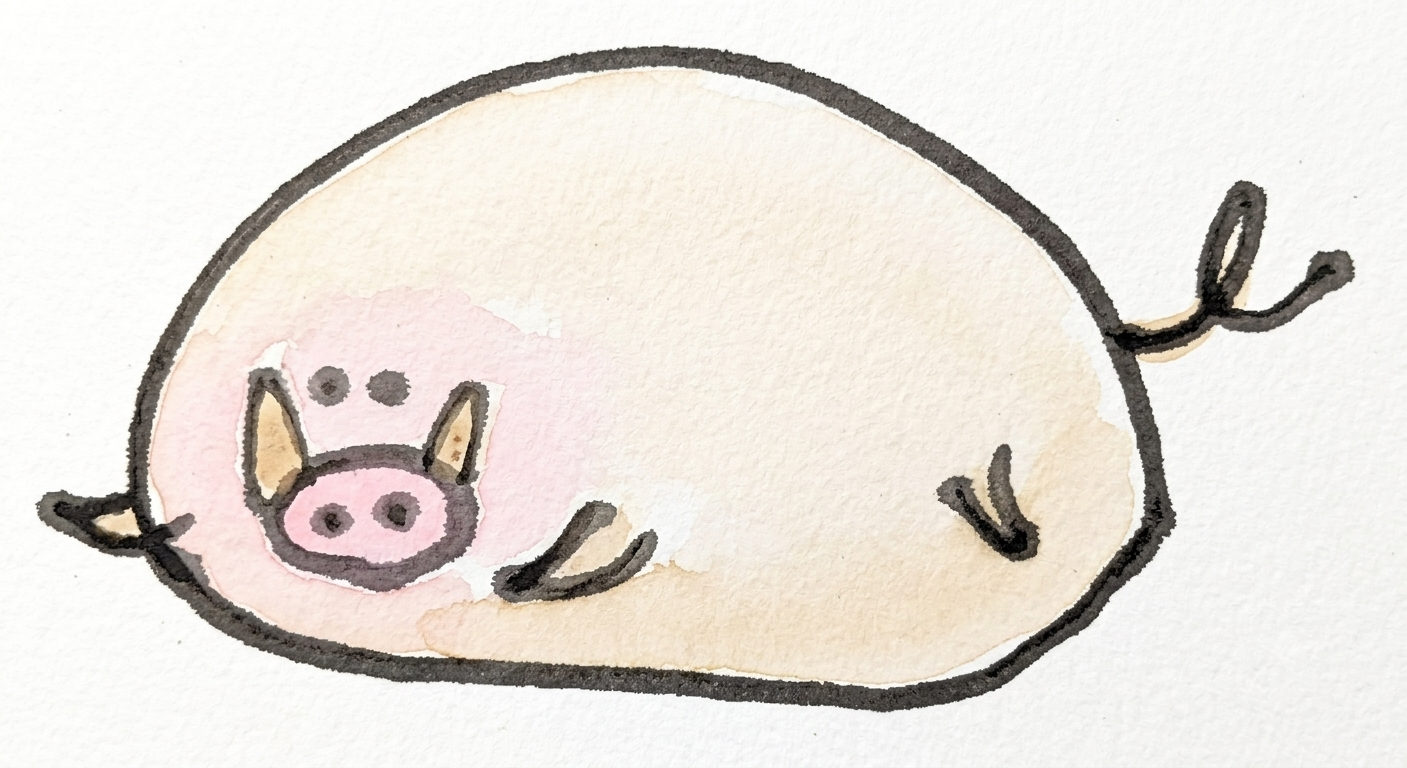
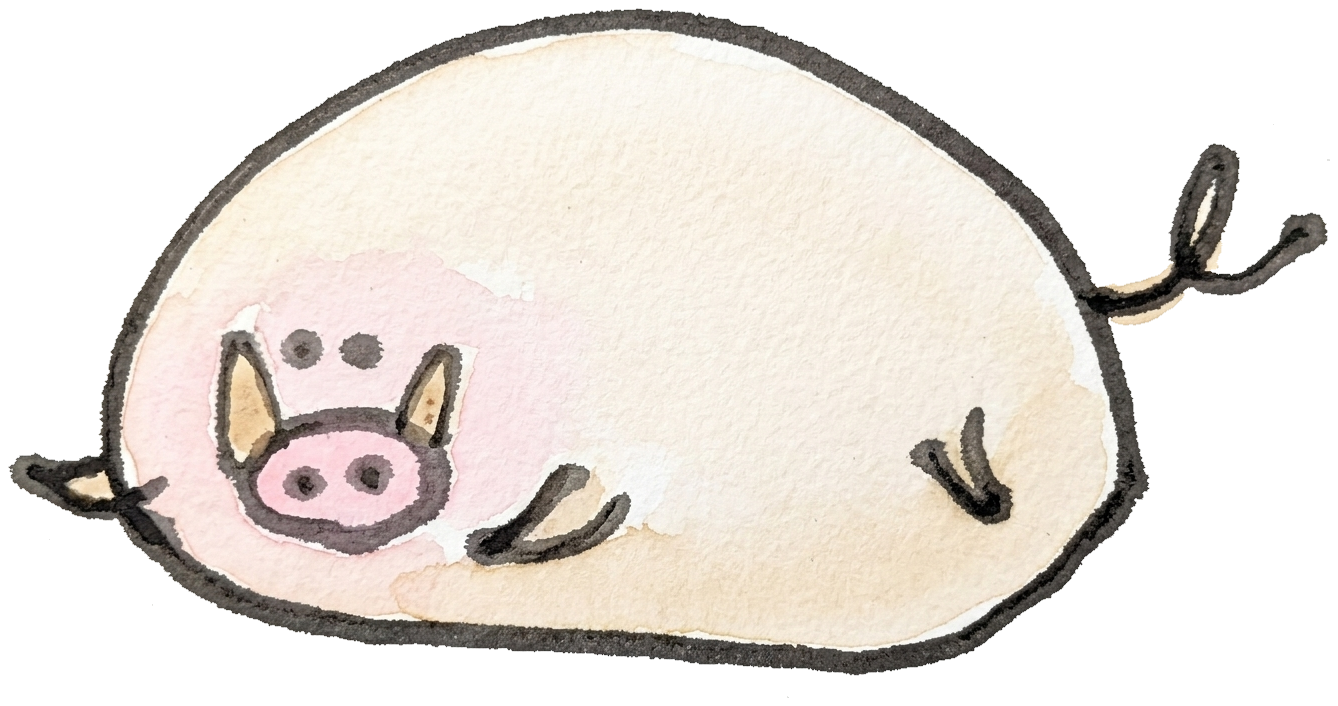
feat: ゴールデンいのころもち(0.005%)＋ヒーロー画像背景透過
- ヒーロー画像を透過PNGに差し替え（drop-shadowがシルエットに沿う）
- 0.005%の確率でゴールデンに輝くエフェクトを追加（CSS golden-pulse + JS判定）
- 全ページのキャッシュバスティングをv=20261101に更新

Changed region(s): [[0.0, 0.0, 1.0, 0.966]]

diff --git a/site/css/style.css b/site/css/style.css
@@ -95,7 +95,15 @@ img { display: block; max-width: 100%; }
 
 /* Hero */
 .hero { display: flex; flex-direction: column; align-items: center; gap: 24px; padding: 72px 48px 56px; }
-.hero-image { width: 300px; height: auto; object-fit: contain; filter: drop-shadow(0 8px 32px rgba(58,54,50,0.10)); }
+.hero-image { width: 300px; height: auto; object-fit: contain; filter: drop-shadow(0 8px 32px rgba(58,54,50,0.10)); transition: filter 0.6s ease; }
+.hero-image.golden {
+  filter: drop-shadow(0 0 18px rgba(255,215,0,0.7)) drop-shadow(0 0 48px rgba(255,200,0,0.45)) drop-shadow(0 8px 32px rgba(58,54,50,0.10));
+  animation: golden-pulse 2.4s ease-in-out infinite;
+}
+@keyframes golden-pulse {
+  0%, 100% { filter: drop-shadow(0 0 18px rgba(255,215,0,0.7)) drop-shadow(0 0 48px rgba(255,200,0,0.45)) drop-shadow(0 8px 32px rgba(58,54,50,0.10)); }
+  50% { filter: drop-shadow(0 0 28px rgba(255,223,0,0.9)) drop-shadow(0 0 64px rgba(255,200,0,0.6)) drop-shadow(0 8px 32px rgba(58,54,50,0.10)); }
+}
 .hero-title { font-weight: 900; font-size: 36px; letter-spacing: 0.04em; text-align: center; }
 .hero-sub { margin-top: 10px; font-family: 'Klee One', sans-serif; font-size: 15px; color: rgba(58,54,50,0.75); letter-spacing: 0.06em; text-align: center; }
 

diff --git a/site/contact.html b/site/contact.html
@@ -8,7 +8,7 @@
 <link rel="preconnect" href="https://fonts.googleapis.com">
 <link rel="preconnect" href="https://fonts.gstatic.com" crossorigin>
 <link href="https://fonts.googleapis.com/css2?family=Zen+Maru+Gothic:wght@400;500;700;900&family=Klee+One:wght@400;600&display=swap" rel="stylesheet">
-<link rel="stylesheet" href="css/style.css?v=20261010">
+<link rel="stylesheet" href="css/style.css?v=20261101">
 <link rel="icon" href="favicon.ico" sizes="any">
 <link rel="icon" type="image/png" sizes="32x32" href="assets/images/favicon-32x32.png">
 <link rel="icon" type="image/png" sizes="16x16" href="assets/images/favicon-16x16.png">
@@ -65,7 +65,7 @@
   </main>
   <footer class="footer"><a href="privacy.html">プライバシーポリシー</a> | <a href="contact.html">お問い合わせ</a></footer>
 </div>
-<script src="js/main.js?v=20261010"></script>
+<script src="js/main.js?v=20261101"></script>
 <script>
 document.getElementById('contact-form').addEventListener('submit', function(e) {
   e.preventDefault();

diff --git a/site/history/ikkyu-shousaian.html b/site/history/ikkyu-shousaian.html
@@ -8,7 +8,7 @@
 <link rel="preconnect" href="https://fonts.googleapis.com">
 <link rel="preconnect" href="https://fonts.gstatic.com" crossorigin>
 <link href="https://fonts.googleapis.com/css2?family=Zen+Maru+Gothic:wght@400;500;700;900&family=Klee+One:wght@400;600&display=swap" rel="stylesheet">
-<link rel="stylesheet" href="../css/style.css?v=20261010">
+<link rel="stylesheet" href="../css/style.css?v=20261101">
 <link rel="icon" href="../favicon.ico" sizes="any">
 <link rel="icon" type="image/png" sizes="32x32" href="../assets/images/favicon-32x32.png">
 <link rel="icon" type="image/png" sizes="16x16" href="../assets/images/favicon-16x16.png">
@@ -175,6 +175,6 @@
   </main>
   <footer class="footer"><a href="../privacy.html">プライバシーポリシー</a> | <a href="../contact.html">お問い合わせ</a></footer>
 </div>
-<script src="../js/main.js?v=20261010"></script>
+<script src="../js/main.js?v=20261101"></script>
 </body>
 </html>

diff --git a/site/history/sumiyoshi-tanjouseki.html b/site/history/sumiyoshi-tanjouseki.html
@@ -8,7 +8,7 @@
 <link rel="preconnect" href="https://fonts.googleapis.com">
 <link rel="preconnect" href="https://fonts.gstatic.com" crossorigin>
 <link href="https://fonts.googleapis.com/css2?family=Zen+Maru+Gothic:wght@400;500;700;900&family=Klee+One:wght@400;600&display=swap" rel="stylesheet">
-<link rel="stylesheet" href="../css/style.css?v=20261010">
+<link rel="stylesheet" href="../css/style.css?v=20261101">
 <link rel="icon" href="../favicon.ico" sizes="any">
 <link rel="icon" type="image/png" sizes="32x32" href="../assets/images/favicon-32x32.png">
 <link rel="icon" type="image/png" sizes="16x16" href="../assets/images/favicon-16x16.png">
@@ -137,6 +137,6 @@
   </main>
   <footer class="footer"><a href="../privacy.html">プライバシーポリシー</a> | <a href="../contact.html">お問い合わせ</a></footer>
 </div>
-<script src="../js/main.js?v=20261010"></script>
+<script src="../js/main.js?v=20261101"></script>
 </body>
 </html>

diff --git a/site/history/ikune-tanabata-okuri.html b/site/history/ikune-tanabata-okuri.html
@@ -8,7 +8,7 @@
 <link rel="preconnect" href="https://fonts.googleapis.com">
 <link rel="preconnect" href="https://fonts.gstatic.com" crossorigin>
 <link href="https://fonts.googleapis.com/css2?family=Zen+Maru+Gothic:wght@400;500;700;900&family=Klee+One:wght@400;600&display=swap" rel="stylesheet">
-<link rel="stylesheet" href="../css/style.css?v=20261010">
+<link rel="stylesheet" href="../css/style.css?v=20261101">
 <link rel="icon" href="../favicon.ico" sizes="any">
 <link rel="icon" type="image/png" sizes="32x32" href="../assets/images/favicon-32x32.png">
 <link rel="icon" type="image/png" sizes="16x16" href="../assets/images/favicon-16x16.png">
@@ -98,6 +98,6 @@
   </main>
   <footer class="footer"><a href="../privacy.html">プライバシーポリシー</a> | <a href="../contact.html">お問い合わせ</a></footer>
 </div>
-<script src="../js/main.js?v=20261010"></script>
+<script src="../js/main.js?v=20261101"></script>
 </body>
 </html>

diff --git a/site/music/apprentice.html b/site/music/apprentice.html
@@ -8,7 +8,7 @@
 <link rel="preconnect" href="https://fonts.googleapis.com">
 <link rel="preconnect" href="https://fonts.gstatic.com" crossorigin>
 <link href="https://fonts.googleapis.com/css2?family=Zen+Maru+Gothic:wght@400;500;700;900&family=Klee+One:wght@400;600&display=swap" rel="stylesheet">
-<link rel="stylesheet" href="../css/style.css?v=20261010">
+<link rel="stylesheet" href="../css/style.css?v=20261101">
 <link rel="icon" href="../favicon.ico" sizes="any">
 <link rel="icon" type="image/png" sizes="32x32" href="../assets/images/favicon-32x32.png">
 <link rel="icon" type="image/png" sizes="16x16" href="../assets/images/favicon-16x16.png">
@@ -72,6 +72,6 @@
   </main>
   <footer class="footer"><a href="../privacy.html">プライバシーポリシー</a> | <a href="../contact.html">お問い合わせ</a></footer>
 </div>
-<script src="../js/main.js?v=20261010"></script>
+<script src="../js/main.js?v=20261101"></script>
 </body>
 </html>

diff --git a/site/music/espoir.html b/site/music/espoir.html
@@ -8,7 +8,7 @@
 <link rel="preconnect" href="https://fonts.googleapis.com">
 <link rel="preconnect" href="https://fonts.gstatic.com" crossorigin>
 <link href="https://fonts.googleapis.com/css2?family=Zen+Maru+Gothic:wght@400;500;700;900&family=Klee+One:wght@400;600&display=swap" rel="stylesheet">
-<link rel="stylesheet" href="../css/style.css?v=20261010">
+<link rel="stylesheet" href="../css/style.css?v=20261101">
 <link rel="icon" href="../favicon.ico" sizes="any">
 <link rel="icon" type="image/png" sizes="32x32" href="../assets/images/favicon-32x32.png">
 <link rel="icon" type="image/png" sizes="16x16" href="../assets/images/favicon-16x16.png">
@@ -77,6 +77,6 @@
   </main>
   <footer class="footer"><a href="../privacy.html">プライバシーポリシー</a> | <a href="../contact.html">お問い合わせ</a></footer>
 </div>
-<script src="../js/main.js?v=20261010"></script>
+<script src="../js/main.js?v=20261101"></script>
 </body>
 </html>

diff --git a/site/music/michi.html b/site/music/michi.html
@@ -8,7 +8,7 @@
 <link rel="preconnect" href="https://fonts.googleapis.com">
 <link rel="preconnect" href="https://fonts.gstatic.com" crossorigin>
 <link href="https://fonts.googleapis.com/css2?family=Zen+Maru+Gothic:wght@400;500;700;900&family=Klee+One:wght@400;600&display=swap" rel="stylesheet">
-<link rel="stylesheet" href="../css/style.css?v=20261010">
+<link rel="stylesheet" href="../css/style.css?v=20261101">
 <link rel="icon" href="../favicon.ico" sizes="any">
 <link rel="icon" type="image/png" sizes="32x32" href="../assets/images/favicon-32x32.png">
 <link rel="icon" type="image/png" sizes="16x16" href="../assets/images/favicon-16x16.png">
@@ -70,6 +70,6 @@
   </main>
   <footer class="footer"><a href="../privacy.html">プライバシーポリシー</a> | <a href="../contact.html">お問い合わせ</a></footer>
 </div>
-<script src="../js/main.js?v=20261010"></script>
+<script src="../js/main.js?v=20261101"></script>
 </body>
 </html>

diff --git a/site/music/tanpopo.html b/site/music/tanpopo.html
@@ -8,7 +8,7 @@
 <link rel="preconnect" href="https://fonts.googleapis.com">
 <link rel="preconnect" href="https://fonts.gstatic.com" crossorigin>
 <link href="https://fonts.googleapis.com/css2?family=Zen+Maru+Gothic:wght@400;500;700;900&family=Klee+One:wght@400;600&display=swap" rel="stylesheet">
-<link rel="stylesheet" href="../css/style.css?v=20261010">
+<link rel="stylesheet" href="../css/style.css?v=20261101">
 <link rel="icon" href="../favicon.ico" sizes="any">
 <link rel="icon" type="image/png" sizes="32x32" href="../assets/images/favicon-32x32.png">
 <link rel="icon" type="image/png" sizes="16x16" href="../assets/images/favicon-16x16.png">
@@ -81,6 +81,6 @@
   </main>
   <footer class="footer"><a href="../privacy.html">プライバシーポリシー</a> | <a href="../contact.html">お問い合わせ</a></footer>
 </div>
-<script src="../js/main.js?v=20261010"></script>
+<script src="../js/main.js?v=20261101"></script>
 </body>
 </html>

diff --git a/site/about.html b/site/about.html
@@ -8,7 +8,7 @@
 <link rel="preconnect" href="https://fonts.googleapis.com">
 <link rel="preconnect" href="https://fonts.gstatic.com" crossorigin>
 <link href="https://fonts.googleapis.com/css2?family=Zen+Maru+Gothic:wght@400;500;700;900&family=Klee+One:wght@400;600&display=swap" rel="stylesheet">
-<link rel="stylesheet" href="css/style.css?v=20261010">
+<link rel="stylesheet" href="css/style.css?v=20261101">
 <link rel="icon" href="favicon.ico" sizes="any">
 <link rel="icon" type="image/png" sizes="32x32" href="assets/images/favicon-32x32.png">
 <link rel="icon" type="image/png" sizes="16x16" href="assets/images/favicon-16x16.png">
@@ -123,6 +123,6 @@
   </main>
   <footer class="footer"><a href="privacy.html">プライバシーポリシー</a> | <a href="contact.html">お問い合わせ</a></footer>
 </div>
-<script src="js/main.js?v=20261010"></script>
+<script src="js/main.js?v=20261101"></script>
 </body>
 </html>

diff --git a/site/friends.html b/site/friends.html
@@ -8,7 +8,7 @@
 <link rel="preconnect" href="https://fonts.googleapis.com">
 <link rel="preconnect" href="https://fonts.gstatic.com" crossorigin>
 <link href="https://fonts.googleapis.com/css2?family=Zen+Maru+Gothic:wght@400;500;700;900&family=Klee+One:wght@400;600&display=swap" rel="stylesheet">
-<link rel="stylesheet" href="css/style.css?v=20261010">
+<link rel="stylesheet" href="css/style.css?v=20261101">
 <link rel="icon" href="favicon.ico" sizes="any">
 <link rel="icon" type="image/png" sizes="32x32" href="assets/images/favicon-32x32.png">
 <link rel="icon" type="image/png" sizes="16x16" href="assets/images/favicon-16x16.png">
@@ -120,6 +120,6 @@
   </main>
   <footer class="footer"><a href="privacy.html">プライバシーポリシー</a> | <a href="contact.html">お問い合わせ</a></footer>
 </div>
-<script src="js/main.js?v=20261010"></script>
+<script src="js/main.js?v=20261101"></script>
 </body>
 </html>

diff --git a/site/kawaraban.html b/site/kawaraban.html
@@ -8,7 +8,7 @@
 <link rel="preconnect" href="https://fonts.googleapis.com">
 <link rel="preconnect" href="https://fonts.gstatic.com" crossorigin>
 <link href="https://fonts.googleapis.com/css2?family=Zen+Maru+Gothic:wght@400;500;700;900&family=Klee+One:wght@400;600&display=swap" rel="stylesheet">
-<link rel="stylesheet" href="css/style.css?v=20261010">
+<link rel="stylesheet" href="css/style.css?v=20261101">
 <link rel="icon" href="favicon.ico" sizes="any">
 <link rel="icon" type="image/png" sizes="32x32" href="assets/images/favicon-32x32.png">
 <link rel="icon" type="image/png" sizes="16x16" href="assets/images/favicon-16x16.png">
@@ -167,6 +167,6 @@
   </main>
   <footer class="footer"><a href="privacy.html">プライバシーポリシー</a> | <a href="contact.html">お問い合わせ</a></footer>
 </div>
-<script src="js/main.js?v=20261010"></script>
+<script src="js/main.js?v=20261101"></script>
 </body>
 </html>
